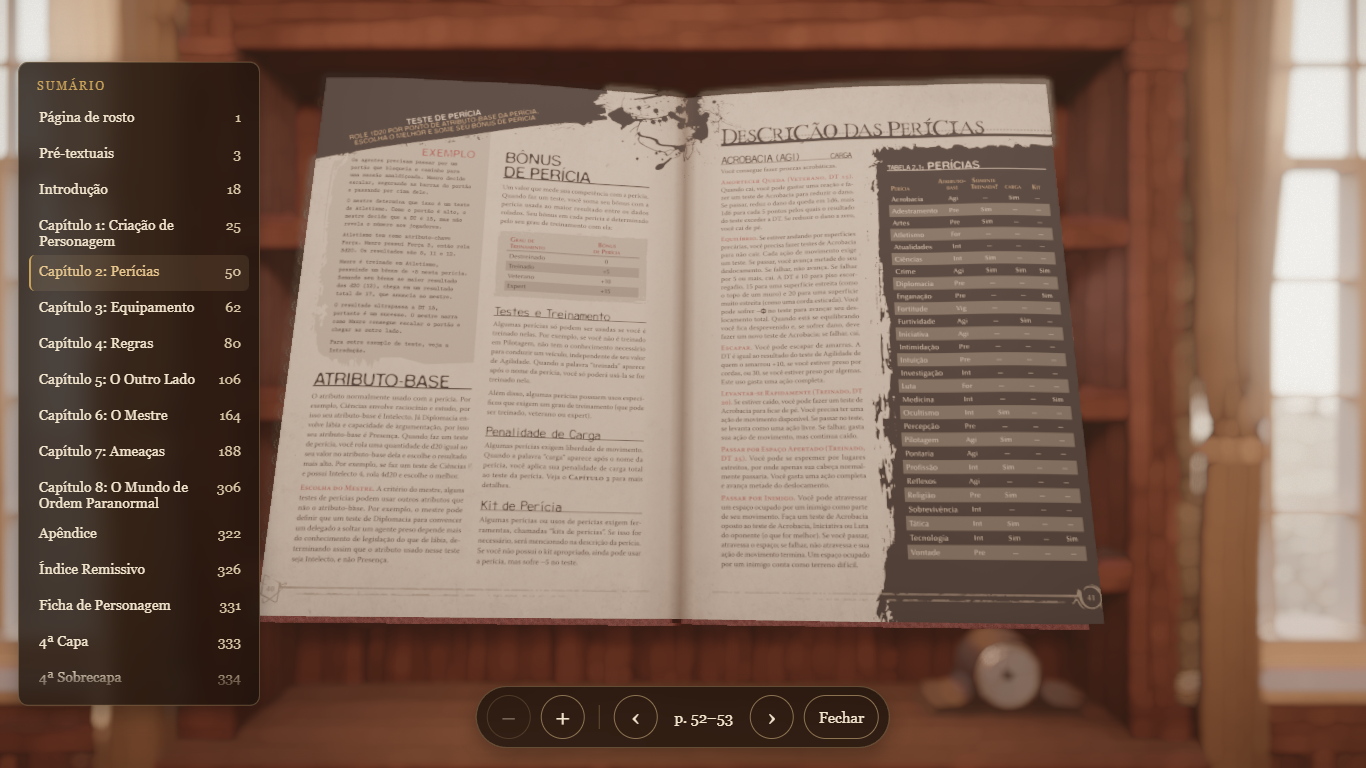
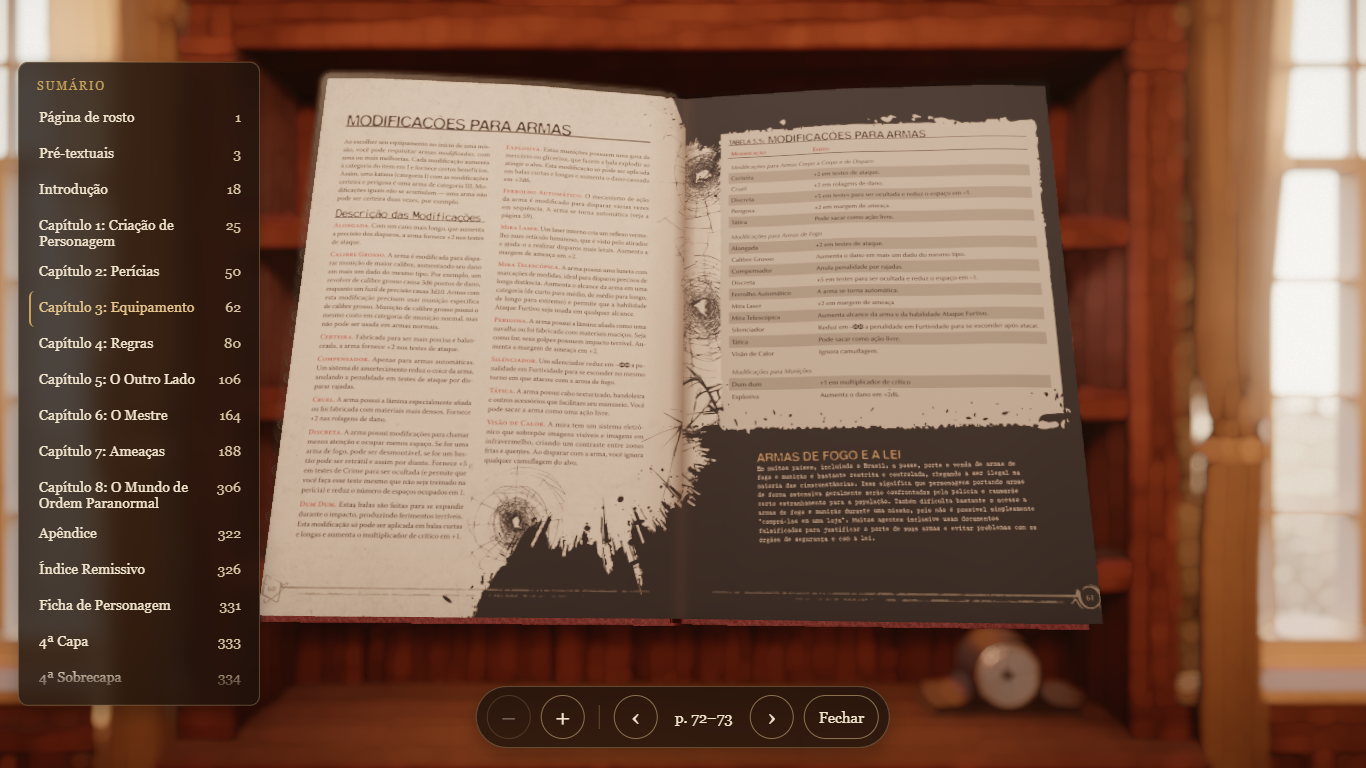
leitura sem névoa: com o livro aberto, a cor da sala fica mais leve
O usuário achou as páginas nevoadas. Três coisas se somavam: o AgX, o
piso de sombra e a dessaturação da sala, e o tratamento de tinta do
fac-símile.

- Com o livro aberto, o piso de sombra cai para 25% e entra uma curva
  em S suave. A transição acompanha a abertura, e a sala volta à cor
  aprovada ao fechar.
- A tinta do fac-símile fica mais perto do preto.

Contraste do texto: 5,1:1 → 7,5:1 (RPG, notebook).

diff --git a/src/scene/Grade.tsx b/src/scene/Grade.tsx
@@ -24,9 +24,11 @@ void mainImage(const in vec4 inputColor, const in vec2 uv, out vec4 outputColor)
 
 /**
  * After tone mapping: lifts the blacks so the darkest shadow is the art-direction brown (#2A1A12),
- * never pure black ("nunca preto puro").
+ * never pure black ("nunca preto puro"). `strength` scales the lift and the desaturation; `contrast` adds an
+ * S-curve (in display space). Reading, the page's ink must stay ink and its paper bright: with the room's grade
+ * as it is, the text read as through a haze (user feedback 18/10).
  */
-class ShadowFloorEffect extends Effect {
+export class ShadowFloorEffect extends Effect {
   constructor({ color = '#2A1A12', saturation = 0.8 } = {}) {
     const c = new Color(color) // three converts the sRGB hex to linear
     super(
@@ -34,20 +36,43 @@ class ShadowFloorEffect extends Effect {
       /* glsl */ `
 uniform vec3 floorColor;
 uniform float saturation;
+uniform float strength;
+uniform float contrast;
 void mainImage(const in vec4 inputColor, const in vec2 uv, out vec4 outputColor) {
   vec3 c = inputColor.rgb;
+  if (contrast > 0.0) {
+    // S-curve around the middle grey of the display: paper lighter, ink darker
+    vec3 d = pow(max(c, vec3(0.0)), vec3(1.0 / 2.2));
+    vec3 s = d * d * (3.0 - 2.0 * d);
+    c = pow(clamp(mix(d, s, contrast), 0.0, 1.0), vec3(2.2));
+  }
   // slight desaturation after AgX: warm light, not orange paint
-  c = mix(vec3(dot(c, vec3(0.2126, 0.7152, 0.0722))), c, saturation);
-  outputColor = vec4(floorColor + (1.0 - floorColor) * c, inputColor.a);
+  c = mix(vec3(dot(c, vec3(0.2126, 0.7152, 0.0722))), c, mix(1.0, saturation, strength));
+  vec3 f = floorColor * strength;
+  outputColor = vec4(f + (1.0 - f) * c, inputColor.a);
 }`,
       {
         blendFunction: BlendFunction.NORMAL,
         uniforms: new Map<string, Uniform>([
           ['floorColor', new Uniform(new Vector3(c.r, c.g, c.b))],
           ['saturation', new Uniform(saturation)],
+          ['strength', new Uniform(1)],
+          ['contrast', new Uniform(0)],
         ]),
       },
     )
+  }
+
+  set strength(v: number) {
+    this.uniforms.get('strength')!.value = v
+  }
+
+  get strength() {
+    return this.uniforms.get('strength')!.value as number
+  }
+
+  set contrast(v: number) {
+    this.uniforms.get('contrast')!.value = v
   }
 }
 

diff --git a/src/scene/Effects.tsx b/src/scene/Effects.tsx
@@ -1,8 +1,17 @@
 import { Bloom, DepthOfField, EffectComposer, N8AO, Noise, ToneMapping, Vignette } from '@react-three/postprocessing'
+import { useFrame } from '@react-three/fiber'
 import { BlendFunction, ToneMappingMode } from 'postprocessing'
+import { useRef } from 'react'
 import { isReading, readFocus, useSelection } from '../book/useSelection'
 import { useLevel, useQuality } from '../state/quality'
-import { ShadowFloor, WhiteBalance } from './Grade'
+import { ShadowFloor, ShadowFloorEffect, WhiteBalance } from './Grade'
+
+/** Shadow floor while a book is open: a fraction of the room's lift, so the ink stays dark (Grade.tsx). */
+const READING_FLOOR = 0.25
+/** S-curve while a book is open (0..1): paper lighter, ink darker; the room behind is out of focus anyway */
+const READING_CONTRAST = 0.45
+/** seconds for the grade to settle when a book opens or closes (about the cover's opening) */
+const FLOOR_EASE_S = 0.8
 
 /**
  * N8AO → Bloom (high threshold: windows, candles, lamp) → Vignette → Noise → white balance → AgX → shadow floor.
@@ -15,6 +24,17 @@ export function Effects() {
   // MSAA and ambient occlusion follow the graphics level (state/quality.ts)
   const { msaa, ao } = useLevel()
   const reading = useSelection((s) => isReading(s.phase))
+  const floor = useRef<ShadowFloorEffect>(null)
+  useFrame((_, delta) => {
+    const f = floor.current
+    if (!f) return
+    const reading = isReading(useSelection.getState().phase) ? 1 : 0
+    // eased together: 0 = the room's grade, 1 = the reading grade
+    const k = (1 - f.strength) / (1 - READING_FLOOR)
+    const next = k + Math.sign(reading - k) * Math.min(Math.abs(reading - k), Math.min(1, delta / FLOOR_EASE_S))
+    f.strength = 1 - next * (1 - READING_FLOOR)
+    f.contrast = next * READING_CONTRAST
+  })
   return (
     <EffectComposer multisampling={msaa} enableNormalPass={false}>
       {ao ? <N8AO aoRadius={0.35} intensity={1.6} distanceFalloff={0.6} halfRes quality="medium" /> : <></>}
@@ -24,7 +44,7 @@ export function Effects() {
       <Noise premultiply blendFunction={BlendFunction.SOFT_LIGHT} opacity={0.06} />
       <WhiteBalance />
       <ToneMapping mode={ToneMappingMode.AGX} />
-      <ShadowFloor />
+      <ShadowFloor ref={floor} />
     </EffectComposer>
   )
 }

diff --git a/src/book/pdf/pdfPages.ts b/src/book/pdf/pdfPages.ts
@@ -137,10 +137,10 @@ export class PdfPages implements PdfPageSource {
   }
 }
 
-/** the darkest ink on paper (art direction: no pure black) */
-const INK_FLOOR = [22, 18, 16]
-/** colour kept from a laid-out page: printed ink is less saturated than a screen */
-const INK_SATURATION = 0.92
+/** the darkest ink: a touch off black (the room's grade lifts the rest; more here read as haze, user 18/10) */
+const INK_FLOOR = [8, 6, 5]
+/** colour kept from a laid-out page: printed ink is a little less saturated than a screen */
+const INK_SATURATION = 0.97
 
 /**
  * A laid-out page as printed ink: a little less saturated and no deeper than ink gets, so multiplied onto the

diff --git a/docs/decisoes.md b/docs/decisoes.md
@@ -444,3 +444,17 @@ Formato de cada entrada:
 - Alternativas: compressão no app (não chega a 50 MB sem estragar as imagens; pode entrar depois para economizar cota); Supabase Pro (US$ 25/mês, limite por arquivo em GBs).
 - Como reverter: em `cloudBooks.ts`, `pdfPathFor` sem partes, e o bloqueio de 50 MB de volta no `BookForm`. Os livros já em partes continuam abrindo.
 - Precisa do usuário? sim: testar logado com o PDF grande (o envio para o Supabase de verdade não roda nos testes).
+
+## 2026-10-18 — Leitura sem "névoa": a cor da sala fica mais leve com o livro aberto
+- Contexto: o usuário testou o RPG logado e achou as páginas "nevoadas, um pouco opacas", tendo que forçar a vista. Medido no notebook (1366×768), o contraste do texto era 5,1:1. Três causas se somavam:
+  - o AgX achata o tom;
+  - o piso de sombra da sala (#2A1A12) e a dessaturação de 80% levam o preto da tinta para marrom-acinzentado;
+  - o tratamento de "tinta" do fac-símile diagramado (decisão da revisão F2) clareava ainda mais o preto.
+- Escolha:
+  - com o livro aberto, o piso de sombra cai para 25% e entra uma curva em S suave (`READING_CONTRAST` 0,45, `src/scene/Effects.tsx`): papel mais claro, tinta mais escura;
+  - a transição acompanha a abertura (0,8 s) e a sala volta à cor aprovada ao fechar o livro;
+  - a tinta do fac-símile perto do preto (`#080605`) e 97% da saturação;
+  - contraste medido: 5,1:1 → 7,5:1 no RPG; o Foucault fica em 6:1, com papel mais claro.
+- Alternativa testada: tirar o reflexo do ambiente do papel e o piso de sombra inteiro. Ganho quase nulo (5,9:1), porque a causa principal é o tom geral.
+- Como reverter: `READING_CONTRAST = 0` e `READING_FLOOR = 1`.
+- Precisa do usuário? sim: aprovar a leitura no notebook.
